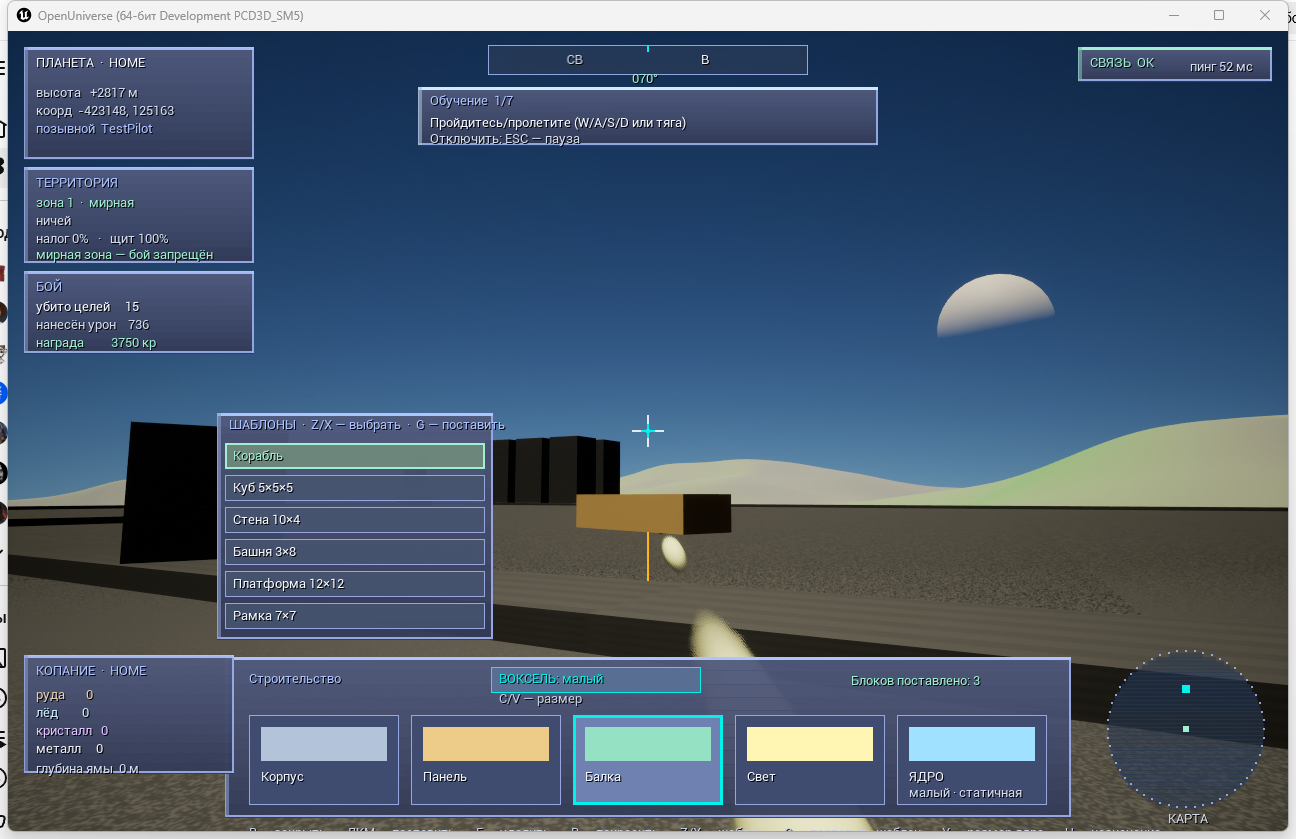
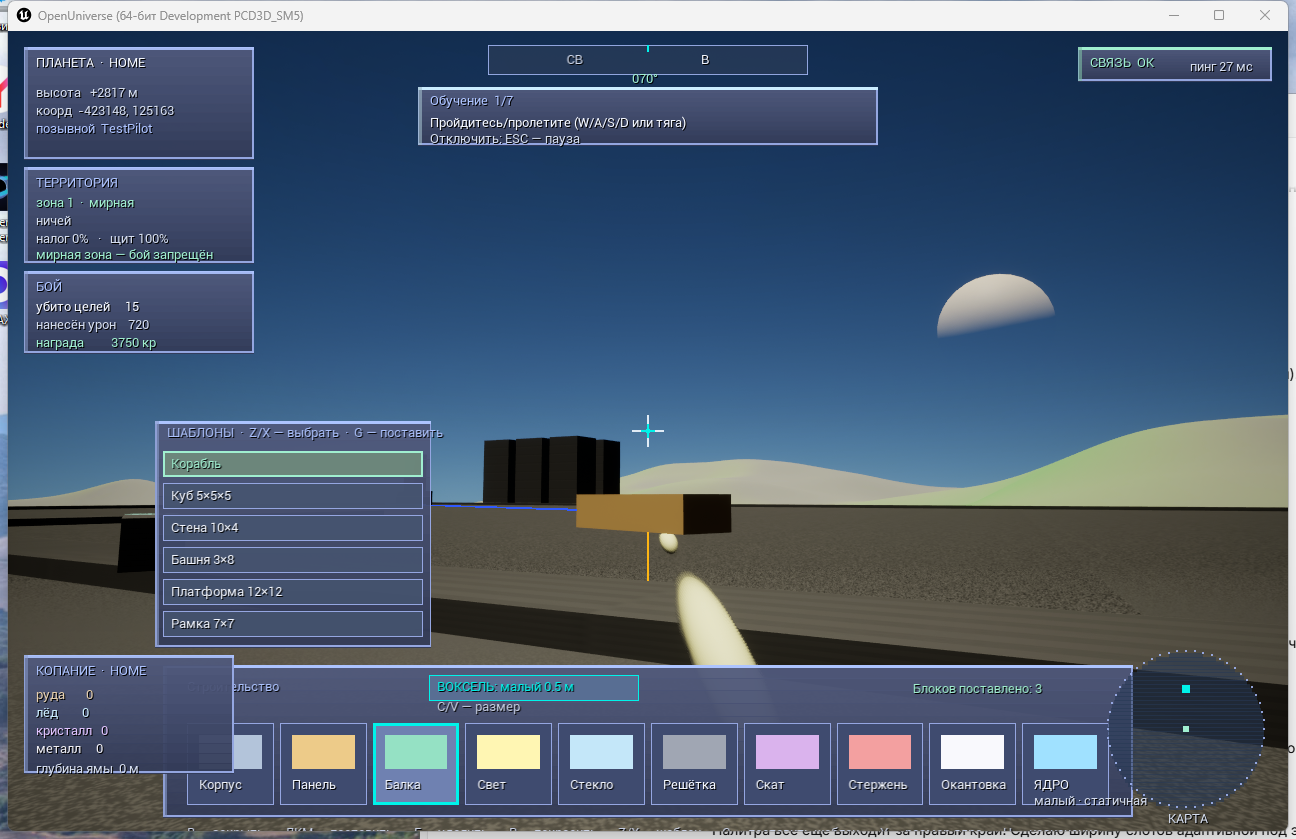
feat(build): smaller voxels (0.5 m base step, brush 0.5/1/1.5 m) and more block types in the palette (9 types + core); guarantee the character cannot pass through voxels (collision + depenetration)

diff --git a/data.js b/data.js
@@ -100,6 +100,7 @@ window.PLAN = {
         { "title": "Сетка деталей и «ядра» конструкций", "title_en": "Part and construction core grid", "status": "done" },
         { "title": "Несколько ядер на игрока с лимитами (2 базы / 3 корабля / 2 динамических; тип «орбитальное» → «динамическое»; своё активное ядро)", "title_en": "Multiple cores per player with per-kind limits (2 base / 3 ship / 2 dynamic; \"orbital\" renamed to \"dynamic\"; own active core)", "status": "done" },
         { "title": "Строительство без ядра (первый воксель сам основывает постройку; такая постройка не тратит лимит ядер; кубы разного размера стыкуются без наложения)", "title_en": "Building without a core (the first voxel founds the build; such a build does not consume a core limit; mixed-size cubes connect without overlap)", "status": "done" },
+        { "title": "Мелкие воксели (базовая ступень 0.5 м; кисть 0.5/1/1.5 м) и больше типов блоков в палитре (9 типов + ядро); персонаж не проходит сквозь воксели (коллизия + выталкивание)", "title_en": "Smaller voxels (0.5 m base step; brush 0.5/1/1.5 m) and more block types in the palette (9 types + core); the character cannot walk through voxels (collision + depenetration)", "status": "done" },
         { "title": "Валидация физической целостности", "title_en": "Physical integrity validation", "status": "done" },
         { "title": "Совместное строительство: репликация правок, выдача прав (H) и индикатор прав в UE", "title_en": "Co-op building: edit replication, granting rights (H) and a rights indicator in UE", "status": "done" },
         { "title": "Редактор в игре: ставить / удалять / красить (прицел, Е/R)", "title_en": "In-game editor: place / remove / paint (crosshair, E/R)", "status": "done" },

diff --git a/client/Source/OpenUniverse/OUCharacterPawn.cpp b/client/Source/OpenUniverse/OUCharacterPawn.cpp
@@ -1,4 +1,4 @@
-// Copyright Open Universe. Все права защищены.
+// Copyright Open Universe. Все права защищены.
 
 #include "OUCharacterPawn.h"
 #include "OUShipPawn.h"
@@ -698,10 +698,10 @@ FString AOUCharacterPawn::BuildBrushName() const
 {
 	switch (BuildBrush)
 	{
-	case 1: return TEXT("малый");
-	case 2: return TEXT("средний");
-	case 3: return TEXT("большой");
-	default: return TEXT("малый");
+	case 1: return TEXT("малый 0.5 м");
+	case 2: return TEXT("средний 1 м");
+	case 3: return TEXT("большой 1.5 м");
+	default: return TEXT("малый 0.5 м");
 	}
 }
 
@@ -799,6 +799,11 @@ FString AOUCharacterPawn::BuildPartName(int32 Index)
 	case EOUBuildPart::Panel: return TEXT("Панель");
 	case EOUBuildPart::Beam:  return TEXT("Балка");
 	case EOUBuildPart::Light: return TEXT("Свет");
+	case EOUBuildPart::Glass: return TEXT("Стекло");
+	case EOUBuildPart::Frame: return TEXT("Решётка");
+	case EOUBuildPart::Slope: return TEXT("Скат");
+	case EOUBuildPart::Rod:   return TEXT("Стержень");
+	case EOUBuildPart::Trim:  return TEXT("Окантовка");
 	case EOUBuildPart::Core:  return TEXT("ЯДРО");
 	default: return TEXT("Блок");
 	}
@@ -812,6 +817,11 @@ FLinearColor AOUCharacterPawn::BuildPartColor(int32 Index)
 	case EOUBuildPart::Panel: return FLinearColor(0.85f, 0.60f, 0.25f);   // тёплый
 	case EOUBuildPart::Beam:  return FLinearColor(0.30f, 0.75f, 0.55f);   // зелёный
 	case EOUBuildPart::Light: return FLinearColor(1.00f, 0.92f, 0.45f);   // светящийся
+	case EOUBuildPart::Glass: return FLinearColor(0.55f, 0.80f, 0.95f);   // голубое стекло
+	case EOUBuildPart::Frame: return FLinearColor(0.35f, 0.38f, 0.45f);   // тёмная решётка
+	case EOUBuildPart::Slope: return FLinearColor(0.70f, 0.45f, 0.85f);   // фиолетовый скат
+	case EOUBuildPart::Rod:   return FLinearColor(0.90f, 0.35f, 0.35f);   // красный стержень
+	case EOUBuildPart::Trim:  return FLinearColor(0.95f, 0.95f, 0.98f);   // белая окантовка
 	default: return FLinearColor(0.60f, 0.60f, 0.60f);
 	}
 }
@@ -872,7 +882,8 @@ void AOUCharacterPawn::PlaceBuildBlock()
 	}
 
 	// Оффлайн (без сервера) — ставим локально, как раньше, для одиночной игры.
-	const float BlockSize = 120.f;
+	// Размер — как у кисти (0.5/1/1.5 м).
+	const float BlockSize = static_cast<float>(OU_VOXEL_CM) * static_cast<float>(BuildBrushSide());
 	const FVector Up = GetActorLocation().GetSafeNormal();
 	FVector Fwd = GetActorForwardVector();
 	Fwd = FVector::VectorPlaneProject(Fwd, Up).GetSafeNormal();
@@ -934,7 +945,7 @@ void AOUCharacterPawn::UpdateBuildGhost()
 	// Ориентация призрака — как у реального блока (по осям сетки).
 	BuildGhost->SetWorldRotation(BuildGridRotation());
 	// Масштаб: базовый куб движка — 100 см; воксель — 150 см × размер.
-	const float Scale = (150.f * static_cast<float>(VoxSide)) / 100.f;
+	const float Scale = (static_cast<float>(OU_VOXEL_CM) * static_cast<float>(VoxSide)) / 100.f;
 	BuildGhost->SetWorldScale3D(FVector(Scale));
 	// Ядро — синеватый призрак (отличить от блоков).
 	const FLinearColor Col = bCoreSel
@@ -976,7 +987,7 @@ void AOUCharacterPawn::UpdateCoreGrid()
 		const FIntVector Target = CorePlacementCell();
 		bShowGrid = true;
 		GridCenter = VoxelWorld(FVector(Target.X, Target.Y, Target.Z), CoreSizeVoxels());
-		GridSideCm = 150.0 * static_cast<double>(CoreSizeVoxels());
+		GridSideCm = OU_VOXEL_CM * static_cast<double>(CoreSizeVoxels());
 	}
 	else if (Net)
 	{
@@ -991,7 +1002,7 @@ void AOUCharacterPawn::UpdateCoreGrid()
 				{
 					bShowGrid = true;
 					GridCenter = VoxelWorld(FVector(C.Coord.X, C.Coord.Y, C.Coord.Z), C.Size);
-					GridSideCm = 150.0 * static_cast<double>(C.Size);
+					GridSideCm = OU_VOXEL_CM * static_cast<double>(C.Size);
 					break;
 				}
 			}
@@ -1112,7 +1123,7 @@ bool AOUCharacterPawn::TraceBuildTarget(FIntVector& OutCoord, FVector& OutHit, F
 		if (const AOUBuildBlock* BB = Cast<AOUBuildBlock>(HitActor))
 		{
 			LastHitBlockSize = FMath::Clamp(
-				FMath::RoundToInt(BB->BlockSize / 150.f), 1, 3);
+				FMath::RoundToInt(BB->BlockSize / static_cast<float>(OU_VOXEL_CM)), 1, 3);
 		}
 		else
 		{
@@ -1139,7 +1150,7 @@ FVector AOUCharacterPawn::WorldToVoxelF(const FVector& WorldPos) const
 	// Мировая точка → НЕПРЕРЫВНАЯ координата сетки (в вокселях) по общему якорю.
 	// Нужно для точной привязки нового куба к точке под прицелом (например, к
 	// любому месту грани крупного вокселя), а не только к его минимальному углу.
-	const double VoxelCm = 150.0;
+	const double VoxelCm = OU_VOXEL_CM;
 	const FVector AnchorUE = BuildAnchorUE;
 	const FVector UpUE = AnchorUE.GetSafeNormal();
 	FVector FwdUE = FVector::VectorPlaneProject(FVector(1.f, 0.f, 0.f), UpUE).GetSafeNormal();
@@ -1208,7 +1219,7 @@ FVector AOUCharacterPawn::VoxelWorld(const FVector& ServerCoord, int32 Size) con
 	// Мировая точка ЦЕНТРА куба вокселя: якорь + координаты (мин. угол) + половина
 	// куба. Размер учитывается: у вокселя N центру надо +N/2 ячейки, иначе крупный
 	// куб «уходит» под землю / в текстуру.
-	const double VoxelCm = 150.0;   // 1.5 м на воксель в см UE
+	const double VoxelCm = OU_VOXEL_CM;   // 1.5 м на воксель в см UE
 	const int32 N = FMath::Clamp(Size, 1, 3);
 	const FVector AnchorUE = BuildAnchorUE;
 	const FVector UpUE = AnchorUE.GetSafeNormal();
@@ -1410,7 +1421,7 @@ void AOUCharacterPawn::ApplyServerBuildEdits()
 					AOUBuildBlock::StaticClass(), FTransform(BuildGridRotation(), Pos));
 				if (Block)
 				{
-					Block->BlockSize = 150.f * static_cast<float>(VSize);
+					Block->BlockSize = static_cast<float>(OU_VOXEL_CM) * static_cast<float>(VSize);
 					// Цвет берём с сервера: у ядра он свой по назначению (корабль/
 					// динамическое/статичная), у обычных блоков — по материалу.
 					Block->BlockColor = FLinearColor(E.R / 255.f, E.G / 255.f, E.B / 255.f);
@@ -2063,6 +2074,52 @@ void AOUCharacterPawn::Tick(float DeltaSeconds)
 	}
 
 	SetActorLocation(NewPos);
+
+	// Гарантия непроходимости: если капсула всё же оказалась внутри вокселя
+	// (например, блок поставили прямо на игрока), выдавливаем её по оси
+	// наименьшего проникновения. Так персонаж никогда не «внутри» постройки.
+	{
+		const FBox Me = GetComponentsBoundingBox(/*bNonColliding=*/true);
+		TArray<FOverlapResult> Overlaps;
+		FCollisionQueryParams PP(SCENE_QUERY_STAT(OUDepenetrate), false, this);
+		if (World->OverlapMultiByChannel(
+			Overlaps, NewPos, FQuat::Identity, ECC_Pawn,
+			FCollisionShape::MakeCapsule(CapsuleRadius, CapsuleHalfHeight), PP))
+		{
+			FVector Push = FVector::ZeroVector;
+			for (const FOverlapResult& O : Overlaps)
+			{
+				const AActor* A = O.GetActor();
+				if (!A || A == this || !A->IsA(AOUBuildBlock::StaticClass())) { continue; }
+				const FBox B = A->GetComponentsBoundingBox(/*bNonColliding=*/true);
+				// Проникновение по каждой оси: (Me+B)/2 центр, перекрытие [max(min),
+				// min(max)]. Выбираем ось с наименьшим перекрытием и выталкиваем.
+				const FVector Center = (Me.GetCenter() + B.GetCenter()) * 0.5;
+				const FVector Overlap(
+					FMath::Min(Me.Max.X, B.Max.X) - FMath::Max(Me.Min.X, B.Min.X),
+					FMath::Min(Me.Max.Y, B.Max.Y) - FMath::Max(Me.Min.Y, B.Min.Y),
+					FMath::Min(Me.Max.Z, B.Max.Z) - FMath::Max(Me.Min.Z, B.Min.Z));
+				if (Overlap.X <= 0.f || Overlap.Y <= 0.f || Overlap.Z <= 0.f) { continue; }
+				// Ось наименьшего проникновения.
+				int32 Axis = 0;
+				if (Overlap.Y < Overlap.X && Overlap.Y <= Overlap.Z) { Axis = 1; }
+				else if (Overlap.Z < Overlap.X && Overlap.Z < Overlap.Y) { Axis = 2; }
+				const double DirSign =
+					((Axis == 0 ? Me.GetCenter().X : (Axis == 1 ? Me.GetCenter().Y : Me.GetCenter().Z))
+					 >= (Axis == 0 ? B.GetCenter().X : (Axis == 1 ? B.GetCenter().Y : B.GetCenter().Z)))
+					? 1.0 : -1.0;
+				const double D = (Axis == 0 ? Overlap.X : (Axis == 1 ? Overlap.Y : Overlap.Z));
+				Push += FVector(
+					Axis == 0 ? DirSign * (D + 1.0) : 0.0,
+					Axis == 1 ? DirSign * (D + 1.0) : 0.0,
+					Axis == 2 ? DirSign * (D + 1.0) : 0.0);
+			}
+			if (!Push.IsNearlyZero())
+			{
+				SetActorLocation(NewPos + Push);
+			}
+		}
+	}
 
 	// Локальный детальный участок поверхности: перестраиваем, когда игрок ушёл
 	// от центра прошлого участка (иначе мелкий рельеф не виден — глобальный

diff --git a/client/Source/OpenUniverse/OUBuildBlock.h b/client/Source/OpenUniverse/OUBuildBlock.h
@@ -12,8 +12,9 @@ class UStaticMeshComponent;
  * Строительный блок Open Universe.
  *
  * Базовый «кубик» конструктора: игрок ставит его из меню строительства.
- * Позже станет частью воксельной сетки (как в `ou-build`), сейчас — простая
- * видимая деталь с цветом по типу материала.
+ * Все блоки — кубы (так воксельная сетка проста и одинакова у всех игроков);
+ * типы в палитре различаются цветом/материалом. Блок **твёрдый**: персонаж не
+ * проходит сквозь него (канал `Pawn` — `Block`).
  */
 UCLASS()
 class OPENUNIVERSE_API AOUBuildBlock : public AActor
@@ -25,7 +26,7 @@ public:
 
 	/** Размер блока, см (куб). */
 	UPROPERTY(EditAnywhere, BlueprintReadWrite, Category = "Open Universe|Build")
-	float BlockSize = 200.f;
+	float BlockSize = 50.f;
 
 	/** Цвет блока (задаётся меню строительства). */
 	UPROPERTY(EditAnywhere, BlueprintReadWrite, Category = "Open Universe|Build")

diff --git a/client/Source/OpenUniverse/OUPlayerMenuController.cpp b/client/Source/OpenUniverse/OUPlayerMenuController.cpp
@@ -1081,7 +1081,12 @@ void AOUPlayerMenuController::DrawBuildMenu(UCanvas* InCanvas)
 
 	// Панель палитры внизу экрана.
 	const int32 Count = (int32)EOUBuildPart::Count;
-	const float SlotW = 150.f, SlotH = 90.f, Gap = 12.f;
+	// Слотов стало больше (больше типов блоков) — ширину считаем от экрана, чтобы
+	// панель всегда помещалась целиком.
+	const float Gap = 6.f;
+	const float SlotW = FMath::Clamp(
+		(W * 0.72f - (Count - 1) * Gap) / static_cast<float>(Count), 84.f, 118.f);
+	const float SlotH = 82.f;
 	const float TotalW = Count * SlotW + (Count - 1) * Gap;
 	const FVector2D PanelPos((W - (TotalW + 48.f)) * 0.5f, H - SlotH - 84.f);
 	const FVector2D PanelSize(TotalW + 48.f, SlotH + 70.f);

diff --git a/client/Source/OpenUniverse/OUCharacterPawn.h b/client/Source/OpenUniverse/OUCharacterPawn.h
@@ -25,9 +25,17 @@ enum class EOUBuildPart : uint8
 	Panel   UMETA(DisplayName = "Панель"),
 	Beam    UMETA(DisplayName = "Балка"),
 	Light   UMETA(DisplayName = "Свет"),
+	Glass   UMETA(DisplayName = "Стекло"),
+	Frame   UMETA(DisplayName = "Решётка"),
+	Slope   UMETA(DisplayName = "Скат"),
+	Rod     UMETA(DisplayName = "Стержень"),
+	Trim    UMETA(DisplayName = "Окантовка"),
 	Core    UMETA(DisplayName = "ЯДРО"),
 	Count   UMETA(Hidden)
 };
+
+/** Размер вокселя в см UE (0.5 м) — базовая ступень сетки постройки. */
+constexpr double OU_VOXEL_CM = 50.0;
 
 /**
  * Персонаж игрока (ходьба по поверхности планеты).

diff --git a/plan.md b/plan.md
@@ -127,6 +127,7 @@
 - [x] Сетка деталей и «ядро» конструкций (ядро нельзя снести; связность проверяется)
 - [x] Несколько ядер на игрока с лимитами (2 базы / 3 корабля / 2 динамических; тип «орбитальное» → «динамическое»; своё активное ядро)
 - [x] Строительство без ядра (первый воксель сам основывает постройку; такая постройка не тратит лимит ядер; кубы разного размера стыкуются без наложения)
+- [x] Мелкие воксели (базовая ступень 0.5 м; кисть 0.5/1/1.5 м) и больше типов блоков в палитре (9 типов + ядро); персонаж не проходит сквозь воксели (коллизия + выталкивание)
 - [x] Валидация физической целостности (`validate`, `prune_disconnected`)
 - [x] Совместное строительство: репликация правок, выдача прав (H) и индикатор прав в UE
 - [x] Воксельный редактор в игре: ставить / удалять / красить (прицел, E/R)

diff --git a/docs/gdd.md b/docs/gdd.md
@@ -44,6 +44,10 @@ Rust (сервер). См. `docs/adr-0001-engine.md`.
 - **Звёздные системы** генерируются из сида (планеты, луны, пояса астероидов).
   В игре сейчас одна обитаемая система.
 - Точность: позиции на проводе — 1 мм (±2147 км); планета умещается целиком.
+- Воксели меньше и детальнее: базовая ступень — **0.5 м**, кисть даёт
+  0.5 / 1 / 1.5 м (5 / 10 / 15 полуметровых ячеек). Ядро — 16/32/64 ячейки
+  (8/16/32 м). В палитре — 9 типов блоков (корпус, панель, балка, свет, стекло,
+  решётка, скат, стержень, окантовка) плюс слот «ЯДРО».
 
 ### Ядра и постройки
 
